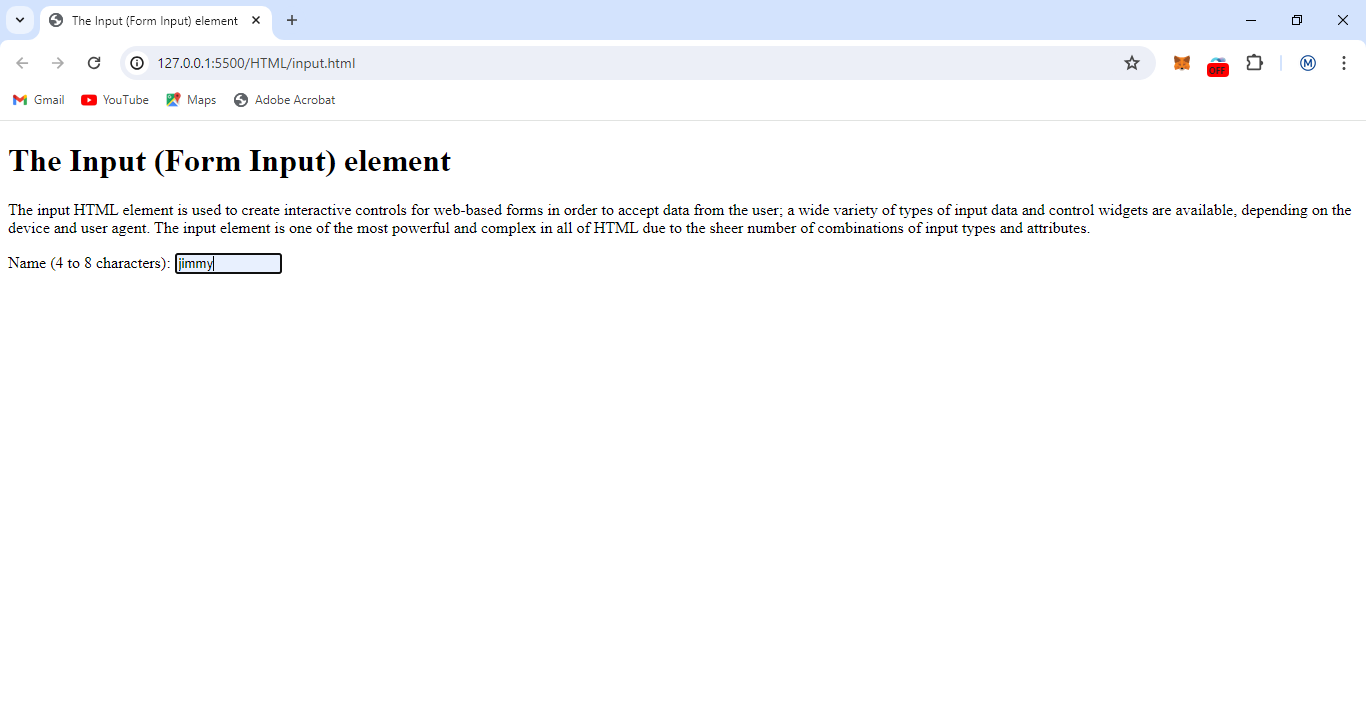
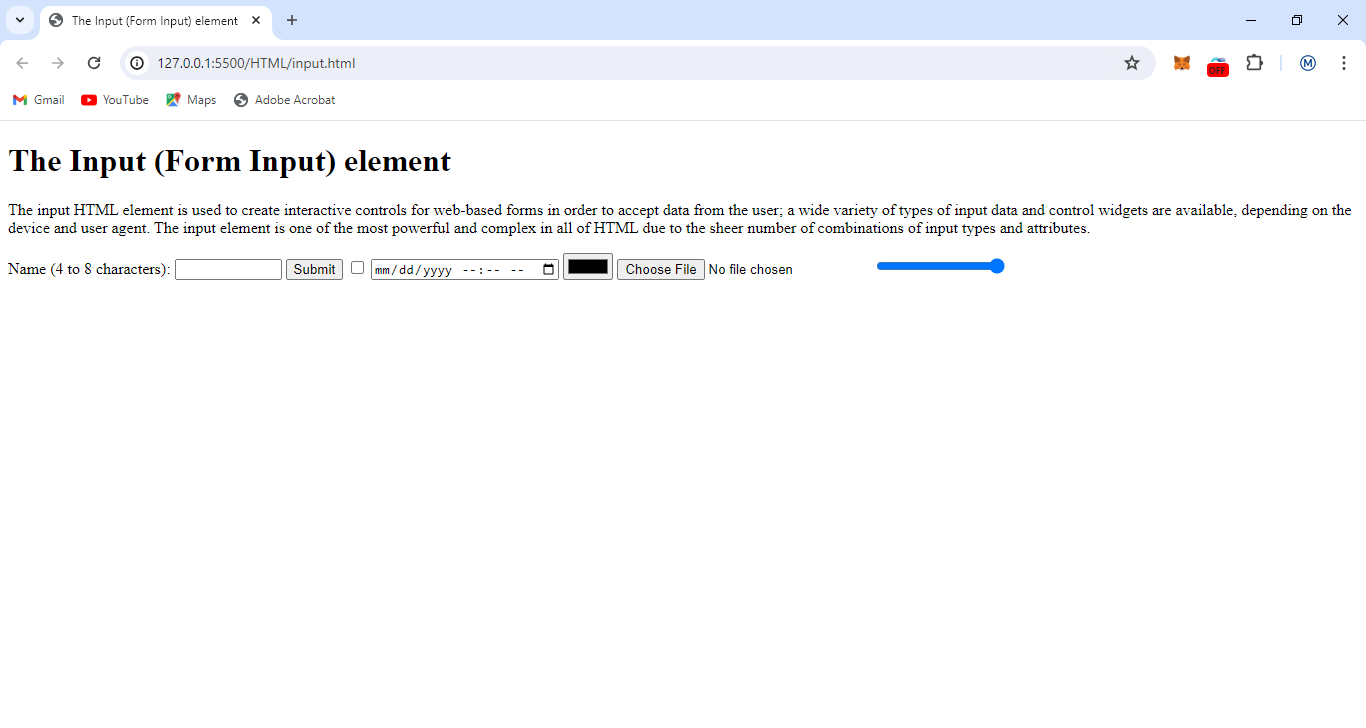
input

diff --git a/HTML/input.html b/HTML/input.html
@@ -14,7 +14,12 @@
 
     <label for="name">Name (4 to 8 characters):</label>
     <input type="text" id="name" name="name" required minlength="4" maxlength="8" size="10" />
-    
-    
+    <input type="button" value="Submit" > 
+    <input type="checkbox" name="select" id="">
+    <input type="datetime-local" name="" id="">
+    <input type="color" name="" id="">
+    <input type="file" name="" id="">
+    <input type="range" name="" id="">
+
 </body>
 </html>
